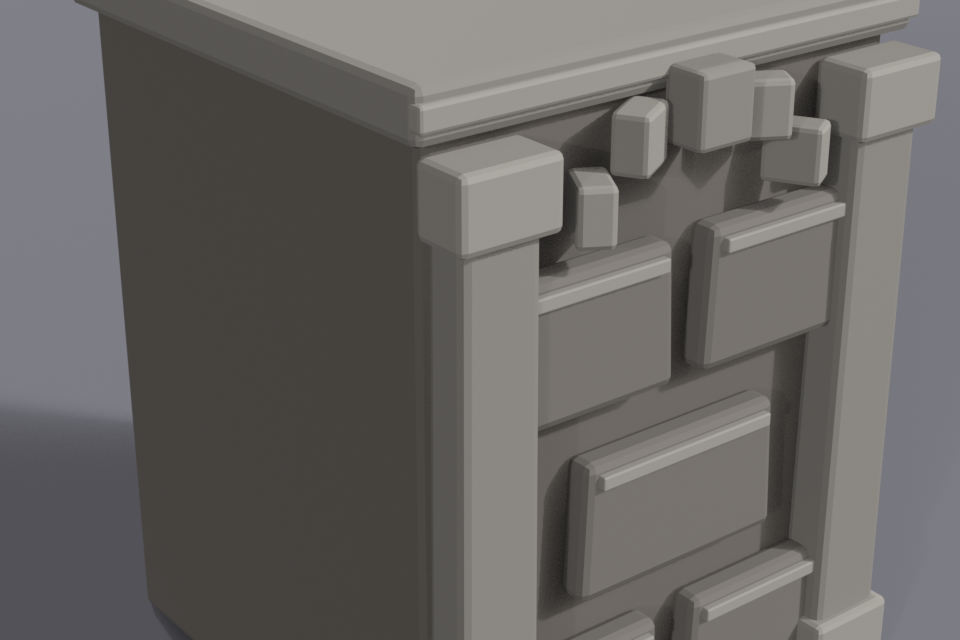
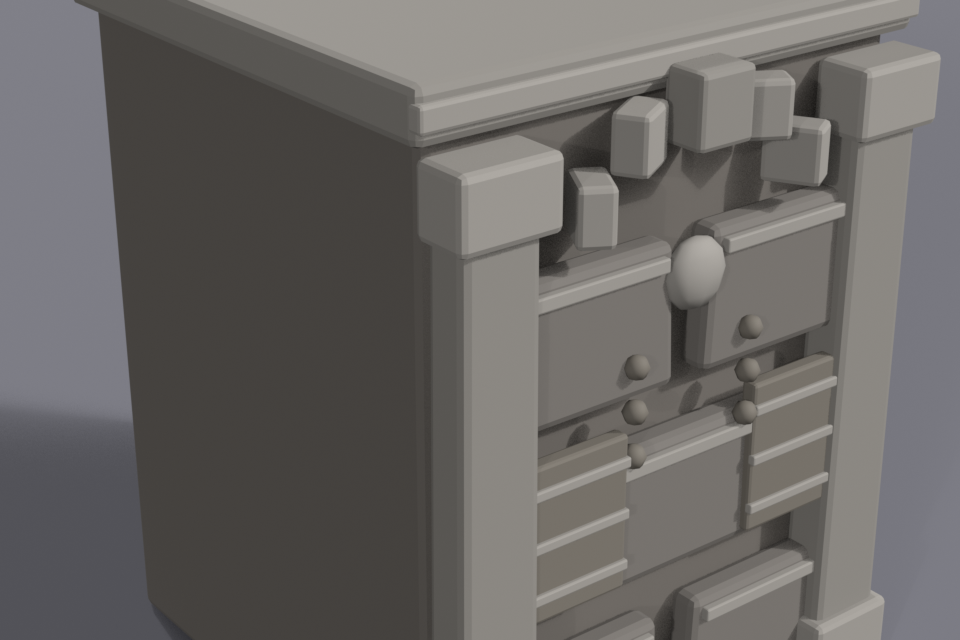
docs+art: P4 terrain aesthetic upgrade complete

diff --git a/CHANGELOG.md b/CHANGELOG.md
@@ -1,4 +1,90 @@
-# P3-2: 9 地标 + 8 护甲细节微调（2026-11-18）
+# P4: 21 件地形审美升级（2026-11-18）
+
+> 用户拍板：群系专属造型语言（真正一眼可辨，不要换色皮肤）；21 件逻辑资产全做；
+> 闸门 bbox 不超基线且面数严格 > 基线；21 张预览全部重生成；"一眼可辨"作为阻塞性验收。
+
+## 同质化根源（本轮要解决的病根）
+
+`blender_models_terrain.py` 的 4 个 builder（wall/floor/stairs/door）几何骨架三群系**完全共用**，
+只换 `PALETTES` 配色；群系差异全压在 `_biome_decor` 的几根小点缀上（监牢甚至直接 `return`
+不加）。结果三个群系的 floor/stairs/door/wall 几乎一样，只是颜色不同。
+
+## 群系专属造型语言
+
+把每类地形的群系点缀从"几根小细条"升级为**主题造型层**，压在原几何骨架 / 墙三变体结构上、
+不覆盖结构差异：
+
+| 群系 | floor | stairs | door | wall |
+|---|---|---|---|---|
+| 监牢（灰白） | 铁栅格+铆钉+凿石纹 | 铁包边踏步+锁链 | 铁栅门板+铆钉门楣 | 铁栅窗+锁链+铆钉盾徽 |
+| 火山（橙棕） | 熔岩池+黑曜碎块+火星 | 熔岩踏面+黑曜侧石+火星 | 黑曜框+熔岩门缝+火星 | 熔岩瀑纹+岩层横带+黑曜刺 |
+| 虚空（紫） | 符文环阵+紫晶簇+幽光点 | 符文阶+紫晶栏+幽光浮点 | 符文门阵+紫晶拱心+幽光 | 空间裂隙+幽光球+紫晶 |
+
+墙的 v0 拱券 / v1 纯砖 / v2 浮雕盾徽三种结构差异保留，主题层压在其上。
+
+## 面数前 → 后（三角面，19 个磁盘 JSON）
+
+| 资产 | 前 | 后 |
+|---|---:|---:|
+| terrain_floor_prison | 732 | 1836 |
+| terrain_floor_volcano | 1056 | 1260 |
+| terrain_floor_void | 876 | 1532 |
+| terrain_stairs_prison | 1188 | 2004 |
+| terrain_stairs_volcano | 1512 | 1756 |
+| terrain_stairs_void | 1332 | 1804 |
+| terrain_door_prison | 1252 | 2140 |
+| terrain_door_volcano | 1616 | 1908 |
+| terrain_door_void | 1704 | 2272 |
+| terrain_wall_prison | 2700 | 3952 |
+| terrain_wall_prison_v1 | 2376 | 3628 |
+| terrain_wall_prison_v2 | 2016 | 3268 |
+| terrain_wall_volcano | 3064 | 3604 |
+| terrain_wall_volcano_v1 | 2740 | 3280 |
+| terrain_wall_volcano_v2 | 2380 | 2920 |
+| terrain_wall_void | 3152 | 3776 |
+| terrain_wall_void_v0 | 3152 | 3776 |
+| terrain_wall_void_v1 | 2828 | 3452 |
+| terrain_wall_void_v2 | 2468 | 3092 |
+
+## bbox 契约与实测要点
+
+- 地形是 32×32 tile，**bbox 不得外扩**（否则破坏网格拼接）；贴地 y_min=0；各件深度基线不同
+  （如 door: prison zmax 5.5 / volcano 20.1 / void 18.618；wall v1 zmax 18.7 最紧），
+  主题件按各件基线逐件收。
+- 低段数采样 bbox 经验延续：半径敏感件保持段数，靠 bbox 内部装饰补面。
+- 实战修正：监牢 wall_boss 初版导出 z 19.1 超 prison_v1 基线 18.7 → 收紧；
+  void floor 初版 y_max 4.80 超基线 4.78 → 收紧紫晶刺/符文环。
+
+## 闸门
+
+- 新增 `tools/check_p4_assets.js` + `tools/p4_baselines.json`：**19 个磁盘文件**（不是 21 逻辑件），
+  基线从精修前 JSON 实测生成（§1.3 区间值个别不准，如 v1 墙 zmax 实为 18.7）。
+  prison/volcano 的 wall v0 无独立文件、由无后缀基准代偿（基准精修即 v0 精修）；void 有独立 v0。
+- RED 验证：19 件初始 faces==基线 → 19/19 因 facesGrew 失败（预期）。
+- `node tools/check_p4_assets.js` → **ASSETS=19 FAILED=0**。
+
+## 阻塞性审图（本轮核心验收）
+
+每类地形把三群系并排 `look()`，通过标准=缩略图 2 秒内可分辨群系归属、主题元素清晰可辨；
+未达标则迭代重做。四类全部通过：
+- floor：铁栅格 / 熔岩池 / 符文环阵
+- stairs：铁包边 / 熔岩踏面 / 符文阶（主题识别靠踏步包边；侧向件被既有高栏柱遮挡，已账本记录）
+- door：铁栅门板 / 熔岩门缝+黑曜 / 符文门阵+紫晶
+- wall：铁栅窗 / 熔岩瀑纹 / 空间裂隙，且 v0/v1/v2 结构差异保留
+最终 4 类×3 群系 12 件全家福同框确认。
+
+## 预览
+
+21 张 `terrain_preview_*.png` 全部重生成（含 prison_v0 / volcano_v0 / void_v0 三张别名图）。
+
+## 验证
+
+- P4 闸门 19/19；P3b 17/17；P3 8/8；A22 150/150（均不退化）；
+  `ctest` 90/90；`fn_length` 0 超规；`world_validator` 通过。
+
+---
+
+# P3-2: 9 地标 + 8 护甲细节微调（2026-11-18）
 
 > 用户拍板：补明确缺口、不设面数门槛；9 地标 + 8 护甲全做；闸门 bbox 不超基线且
 > 面数严格 > 基线；17 张预览全部重生成；完成后同步桌面包并哈希校验。
